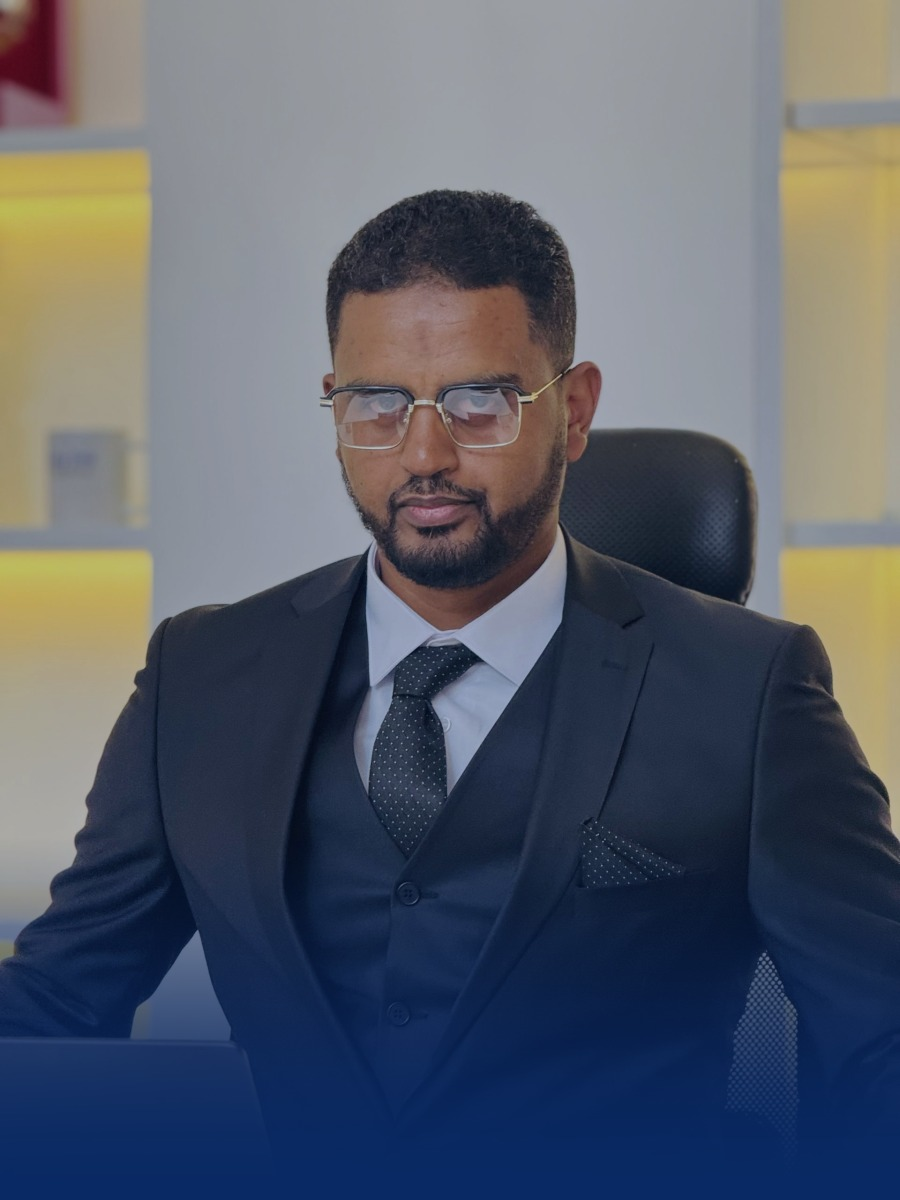
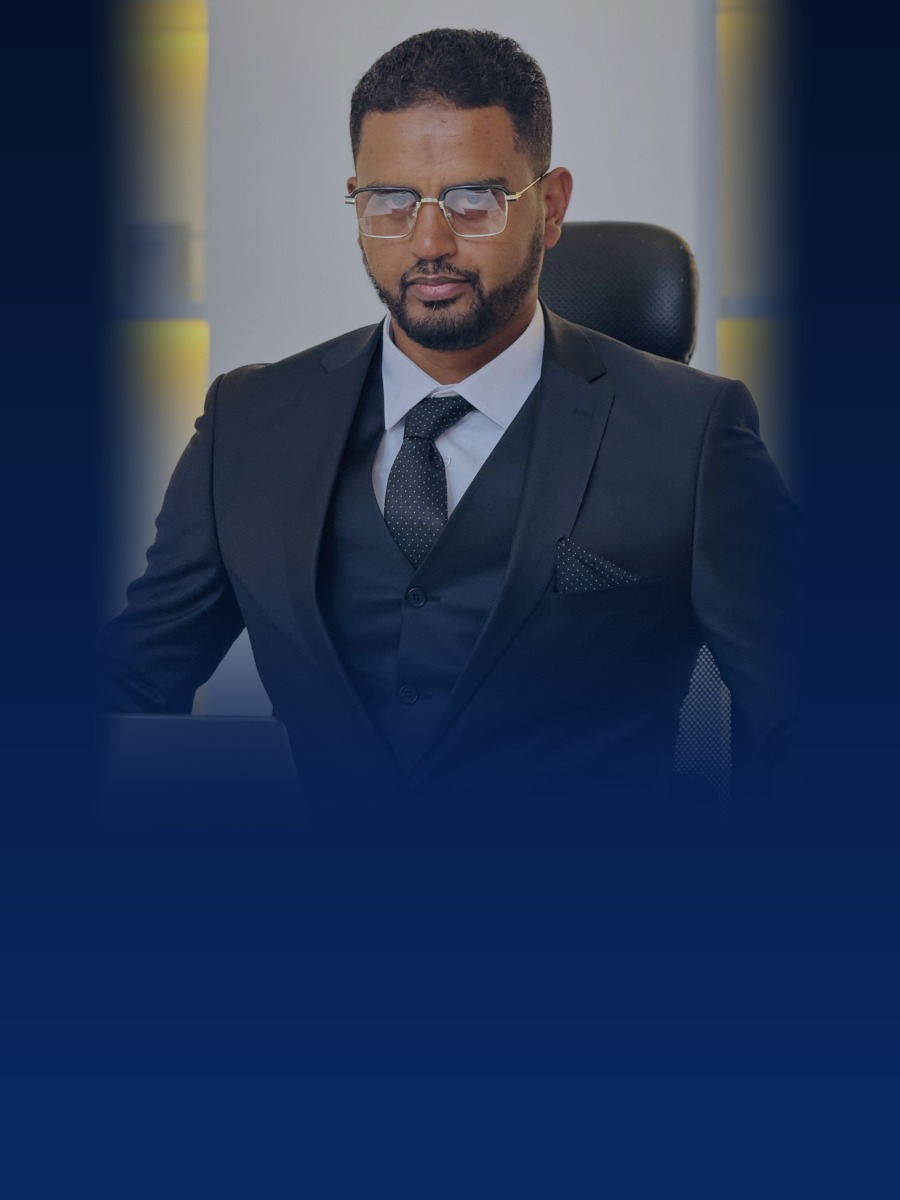
feat(hero): CEO still keeps his face clear of the anniversary seal and the headline; portrait screens use the phone image

diff --git a/tools/local/build-ceo-hero.php b/tools/local/build-ceo-hero.php
@@ -35,8 +35,13 @@ function place($canvas, $photo, array $crop, array $box, callable $alpha, array 
     [$dx, $dy, $w, $h] = $box;
     $tmp = imagecreatetruecolor($w, $h);
     imagecopyresampled($tmp, $photo, 0, 0, $cx, $cy, $w, $h, $cw, $ch);
+    $cw0 = imagesx($canvas);
+    $ch0 = imagesy($canvas);
     for ($y = 0; $y < $h; $y++) {
         for ($x = 0; $x < $w; $x++) {
+            if ($dx + $x < 0 || $dy + $y < 0 || $dx + $x >= $cw0 || $dy + $y >= $ch0) {
+                continue; // the box may start outside the canvas
+            }
             $a = $alpha($x / $w, $y / $h);
             $c = imagecolorat($tmp, $x, $y);
             $n = imagecolorat($canvas, $dx + $x, $dy + $y); // blend into the backdrop, so there is no visible seam
@@ -77,18 +82,18 @@ function save($im, string $base, int $maxKb, int $q = 92): void
     printf("%s: q%d jpg %d KB, webp %d KB\n", basename($base), $q, filesize($base.'.jpg') / 1024, filesize($base.'.webp') / 1024);
 }
 
-// ---- desktop 1920x1080: portrait on the right, soft fade into navy on the left and bottom ----
+// Head and shoulders are scaled down and raised so that the face stays clear of the anniversary seal (desktop,
+// seal sits right of centre) and of the headline (phones, copy sits mid-screen). Source head: y 410..1254 of 2560.
+// ---- desktop 1920x1080: portrait on the right (face about y 100..390), fades into navy on the left and below ----
 $d = backdrop(1920, 1080, $navy, false);
-$bw = 1040;
-$cropH = (int) round($sw * 1080 / $bw);
-place($d, $photo, [0, 120, $sw, $cropH], [1920 - $bw, 0, $bw, 1080], function ($u, $v) {
-    return max(0.2, 1 - smooth($u / 0.65) * 0.8, smooth(($v - 0.8) / 0.2));
+place($d, $photo, [0, 0, $sw, $sh], [1260, -41, 660, 880], function ($u, $v) {
+    return max(0.2, 1 - smooth($u / 0.5) * 0.8, smooth(($v - 0.7) / 0.3));
 }, $navy);
 save($d, $out.'poster', 250);
 
-// ---- mobile 900x1200: whole portrait, face in the upper third, navy towards the bottom ----
+// ---- mobile 900x1200: face in the top fifth (above the headline), suit fades into navy ----
 $m = backdrop(900, 1200, $navy, true);
-place($m, $photo, [0, 0, $sw, $sh], [0, 0, 900, 1200], function ($u, $v) {
-    return max(0.25, smooth(($v - 0.55) / 0.45));
+place($m, $photo, [0, 0, $sw, $sh], [86, -125, 728, 970], function ($u, $v) {
+    return max(0.22, 1 - smooth($u / 0.18) * 0.78, 1 - smooth((1 - $u) / 0.18) * 0.78, smooth(($v - 0.55) / 0.45));
 }, $navy);
 save($m, $out.'poster-mobile', 150);

diff --git a/resources/views/partials/hero-media.blade.php b/resources/views/partials/hero-media.blade.php
@@ -36,8 +36,8 @@
 
 @push('styles')
     @if ($heroPosterWebp && $heroPosterMobileWebp)
-        <link rel="preload" as="image" type="image/webp" href="{{ $heroPosterMobileWebp }}" media="(max-width: 767.98px)" fetchpriority="high">
-        <link rel="preload" as="image" type="image/webp" href="{{ $heroPosterWebp }}" media="(min-width: 768px)" fetchpriority="high">
+        <link rel="preload" as="image" type="image/webp" href="{{ $heroPosterMobileWebp }}" media="(max-width: 767.98px), (max-aspect-ratio: 1/1)" fetchpriority="high">
+        <link rel="preload" as="image" type="image/webp" href="{{ $heroPosterWebp }}" media="(min-width: 768px) and (min-aspect-ratio: 101/100)" fetchpriority="high">
     @else
         <link rel="preload" as="image" href="{{ $heroPoster }}" fetchpriority="high">
     @endif
@@ -221,8 +221,8 @@
 <div class="hero-media" data-hero-media aria-hidden="true">
     <div class="hero-media__frame">
         <picture>
-            @if ($heroPosterMobileWebp)<source media="(max-width: 767.98px)" srcset="{{ $heroPosterMobileWebp }}" type="image/webp">@endif
-            @if ($heroPosterMobile)<source media="(max-width: 767.98px)" srcset="{{ $heroPosterMobile }}" type="image/jpeg">@endif
+            @if ($heroPosterMobileWebp)<source media="(max-width: 767.98px), (max-aspect-ratio: 1/1)" srcset="{{ $heroPosterMobileWebp }}" type="image/webp">@endif
+            @if ($heroPosterMobile)<source media="(max-width: 767.98px), (max-aspect-ratio: 1/1)" srcset="{{ $heroPosterMobile }}" type="image/jpeg">@endif
             @if ($heroPosterWebp)<source srcset="{{ $heroPosterWebp }}" type="image/webp">@endif
             <img class="hero-media__poster" src="{{ $heroPoster }}" alt="{{ $heroCeoStill ? 'Muhammad Karim, CEO and founder of Sky Link Technologies' : '' }}" fetchpriority="high" decoding="async">
         </picture>
